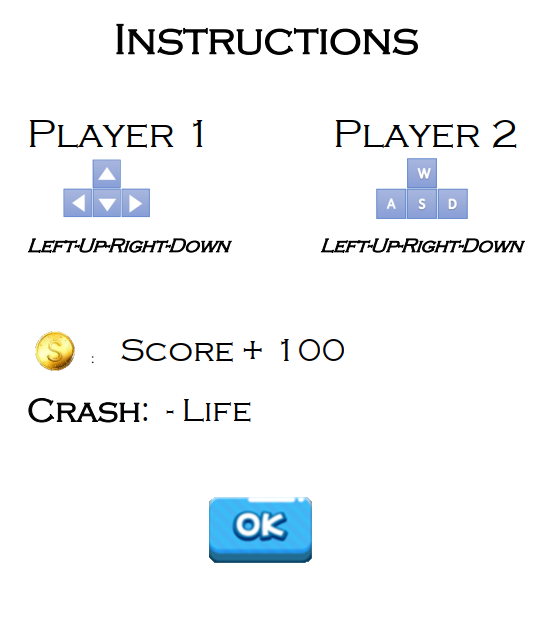
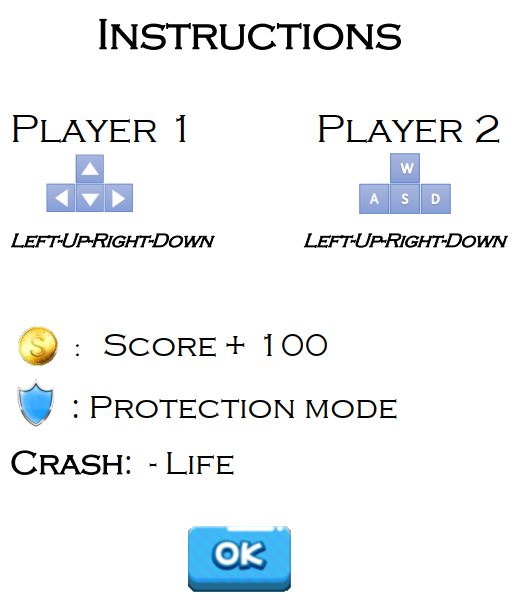
shield

diff --git a/Object.py b/Object.py
@@ -29,6 +29,7 @@ PLAYER_Object_X_OFFSETS = [0,45]
 PLAYER_Object_Y         = 15
 Object_SPEED            = 7 # pix/frame
 ObjectCar_SPEED            = 2 # pix/frame
+ObjectShield_SPEED            = 1
 ObjectCar_FRAMES           = 360
 FRAME_TIME_MS           = 16  # ms/frame
 import random
@@ -148,3 +149,78 @@ class ObjectCar3(QLabel, QGraphicsPixmapItem):
             time.sleep(0.2)
             i = i+1
         player.speedSlow = False
+
+
+class ObjectShield(QLabel, QGraphicsPixmapItem):
+    def __init__(self, parent, x, y, pic):
+
+        super(ObjectShield, self).__init__(parent)
+        self.parent = parent
+        self.xPos = x
+        self.yPos = y
+        self.active = False
+        self.pic = pic
+        player = QPixmap(self.pic)
+        self.dimX = 90
+        self.dimY = 90
+        self.setPixmap(player.scaled(self.dimX, self.dimY))
+        self.player = parent.player
+        self.player1 = parent.player1
+
+        self.plavi = False
+        self.crveni = False
+
+
+    def game_update(self):
+        if not self.active:
+            self.active = True
+            self.setGeometry(random.randrange(self.xPos, self.yPos), random.randrange(-4000, -1500), self.dimX, self.dimY)
+        else:
+            self.setGeometry(self.x(), self.y() + ObjectShield_SPEED, self.dimX, self.dimY)
+            # kontakt plavog igraca i prepreke
+            self.pozicijaPlayer = self.player.geometry()
+            if (self.player.x() < self.x() + 45 and self.player.x() + 45 > self.x()) and \
+                    (self.player.y() + 45 > self.y() and self.player.y() < self.y() + 45 and not self.parent.player.untouchable):
+                if self.parent.player.untouchable:
+                    return
+
+                #self.setVisible(False)
+                #self.untouchable = True
+                self.active = False
+
+                self.t = Thread(target=self.blink, args=(self.parent.player,))
+                self.t.start()
+            # kontakt crvenog igraca i prepreke
+            self.pozicijaPlayer1 = self.player1.geometry()
+            if (self.player1.x() < self.x() + 45 and self.player1.x() + 45 > self.x()) and \
+                    (self.player1.y() + 45 > self.y() and self.player1.y() < self.y() + 45 and not self.parent.player1.untouchable):
+                if self.parent.player1.untouchable:
+                    return
+
+                #self.setVisible(False)
+                #self.untouchable = True
+                self.active = False
+
+                self.t = Thread(target=self.blink, args=(self.parent.player1,))
+                self.t.start()
+
+
+            if self.y() > 3500:
+                self.active = False
+                self.setGeometry(SCREEN_WIDTH, SCREEN_HEIGHT, self.dimX, self.dimY)
+                #self.untouchable = False
+               # self.setVisible(True)
+
+
+    def blink(self, player):
+        i = 0
+        player.untouchable = True
+        while (i < 8):
+            player.dimX = 0
+            player.dimY = 0
+            time.sleep(0.15)
+            player.dimX = 90
+            player.dimY = 170
+            time.sleep(0.15)
+            i = i + 1
+        player.untouchable = False

diff --git a/Game.py b/Game.py
@@ -98,7 +98,8 @@ class igra(QFrame, QGraphicsScene):
         self.Objects = [Object.ObjectCar3(self, 150, 580, "Slike/prepreka2.png"),
                         Object.ObjectCar3(self, 580, 900, "Slike/prepreka1.png"),
                         Object.ObjectCar1(self, 150, 580, "Slike/car_green.png"),
-                        Object.ObjectCar1(self, 580, 900, "Slike/car_orange.png")]
+                        Object.ObjectCar1(self, 580, 900, "Slike/car_orange.png"),
+                        Object.ObjectShield(self, 150, 580, "Slike/shield.png")]
 
         #da se automobili prikazu preko prepreka
         self.player.raise_()

diff --git a/menu.py b/menu.py
@@ -71,7 +71,7 @@ class Instructions(QWidget):
         self.setStyleSheet("background-image: url(Slike/instructions.png)")
 
         self.buttonRet = QPushButton('',self)
-        self.buttonRet.setFixedSize(574, 590)
+        self.buttonRet.setFixedSize(517, 630)
 
         layout = QHBoxLayout()
         layout.addWidget(self.buttonRet)
